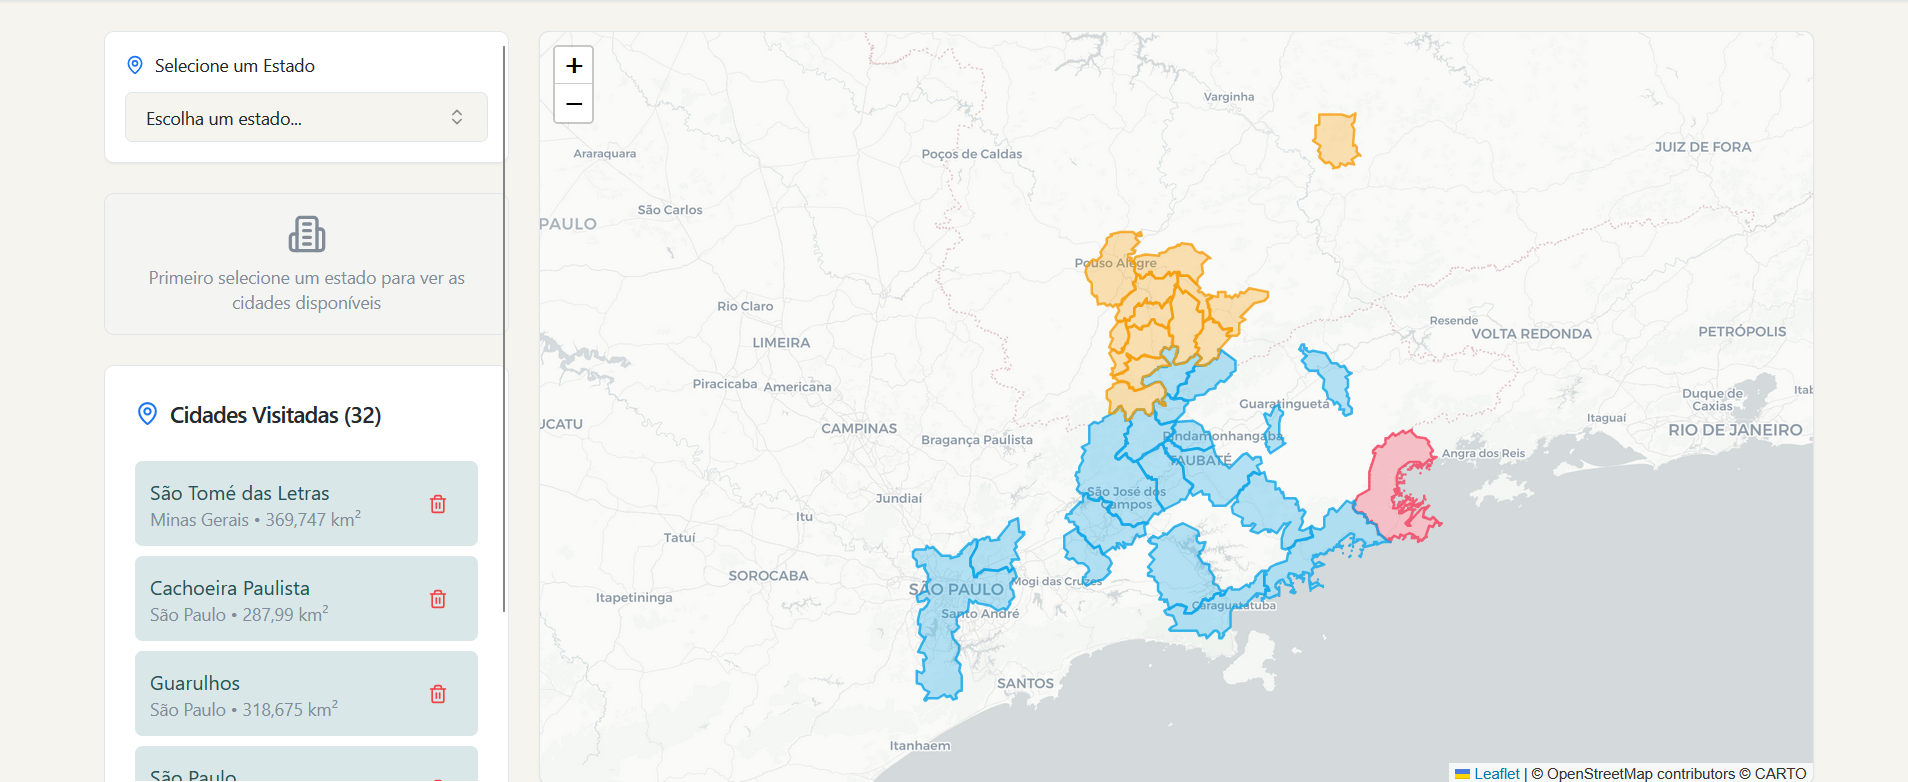
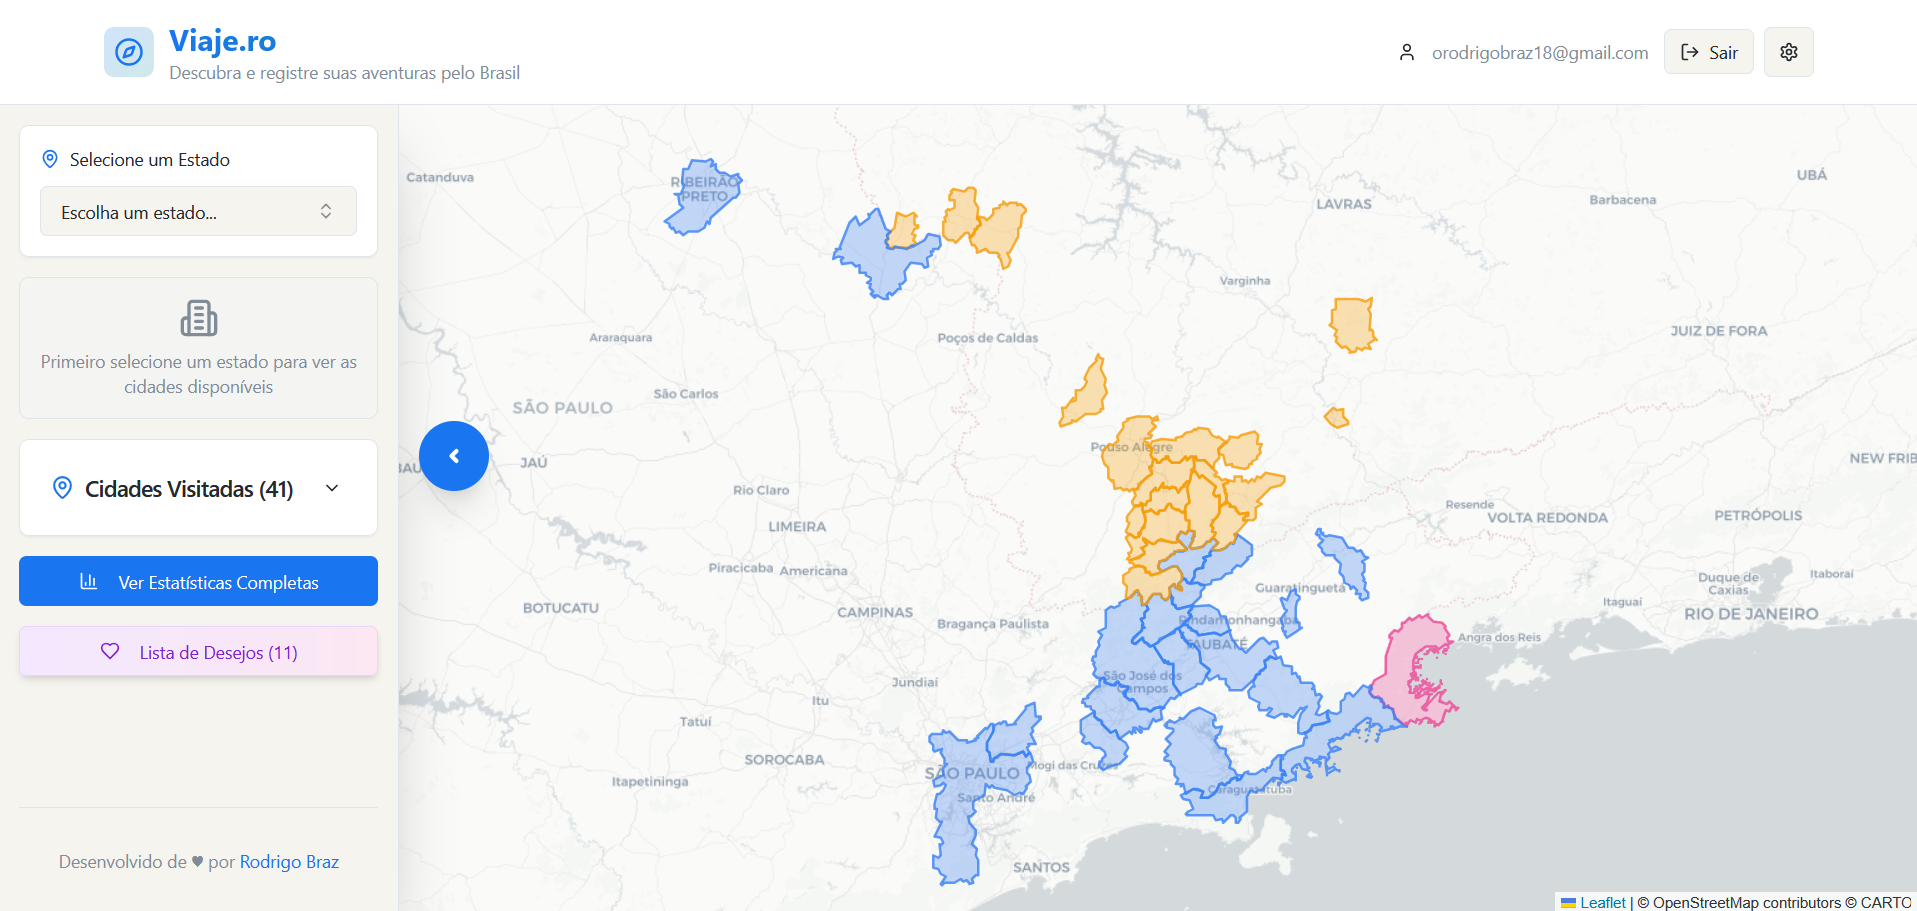
Update

diff --git a/index.html b/index.html
@@ -432,7 +432,7 @@
                             </div>
                             <div class="project-content">
                                 <h3 data-pt="Viaje.ro" data-en="Viaje.ro">Viaje.ro</h3>
-                                <p data-pt="Plataforma de planejamento de viagens com mapas interativos e localização geográfica. Sistema completo de gestão de destinos e rotas." data-en="Travel planning platform with interactive maps and geographic location. Complete destination and route management system.">Plataforma de planejamento de viagens com mapas interativos e localização geográfica. Sistema completo de gestão de destinos e rotas.</p>
+                                <p data-pt="Uma forma inovadora de documentar as viagens feitas pelo Brasil com mapas interativos e localização geográfica." data-en="An innovative way to document trips made through Brazil with interactive maps and geographic location.">Uma forma inovadora de documentar as viagens feitas pelo Brasil com mapas interativos e localização geográfica.</p>
                                 <div class="project-tech" role="list" aria-label="Tecnologias utilizadas">
                                     <span class="tech-tag" role="listitem">ReactJS</span>
                                     <span class="tech-tag" role="listitem">TypeScript</span>
